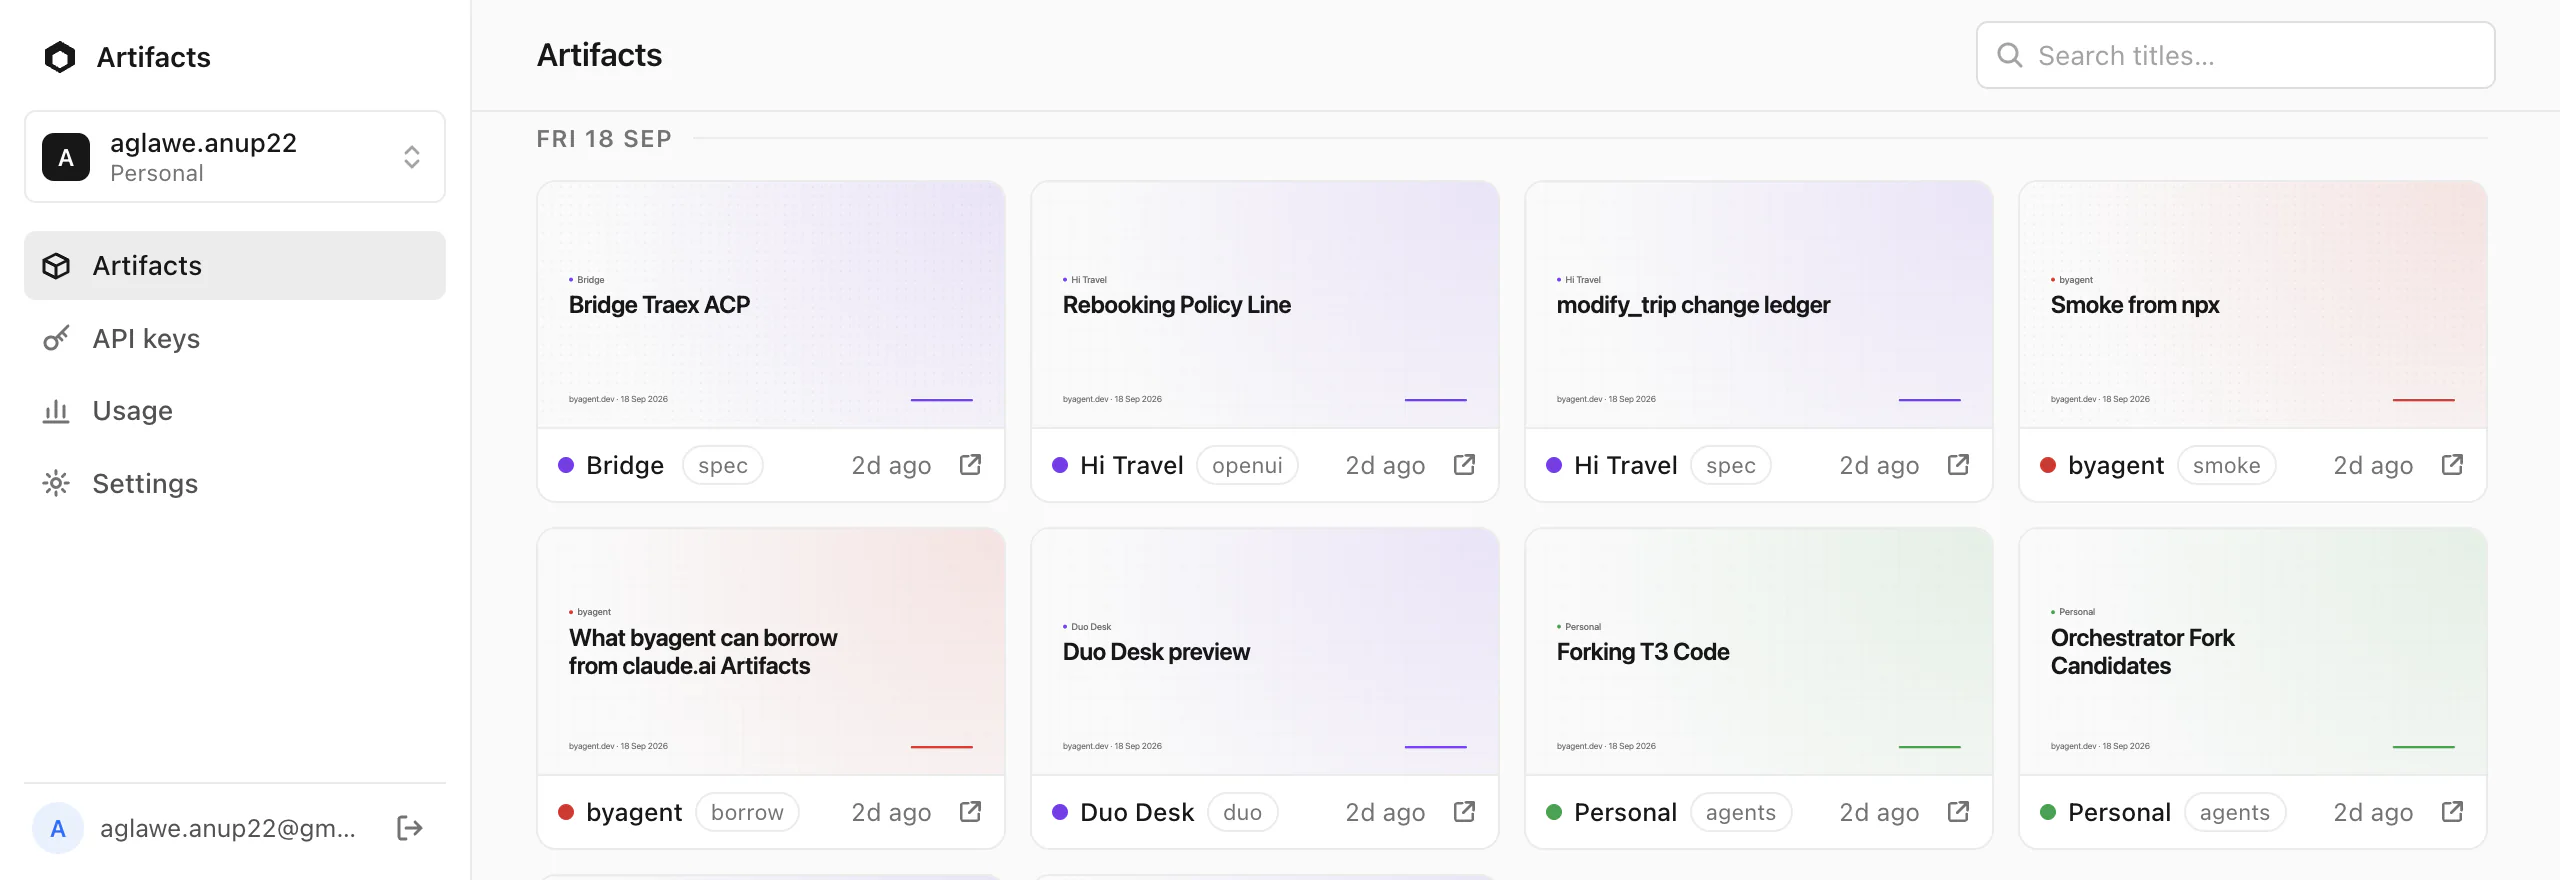
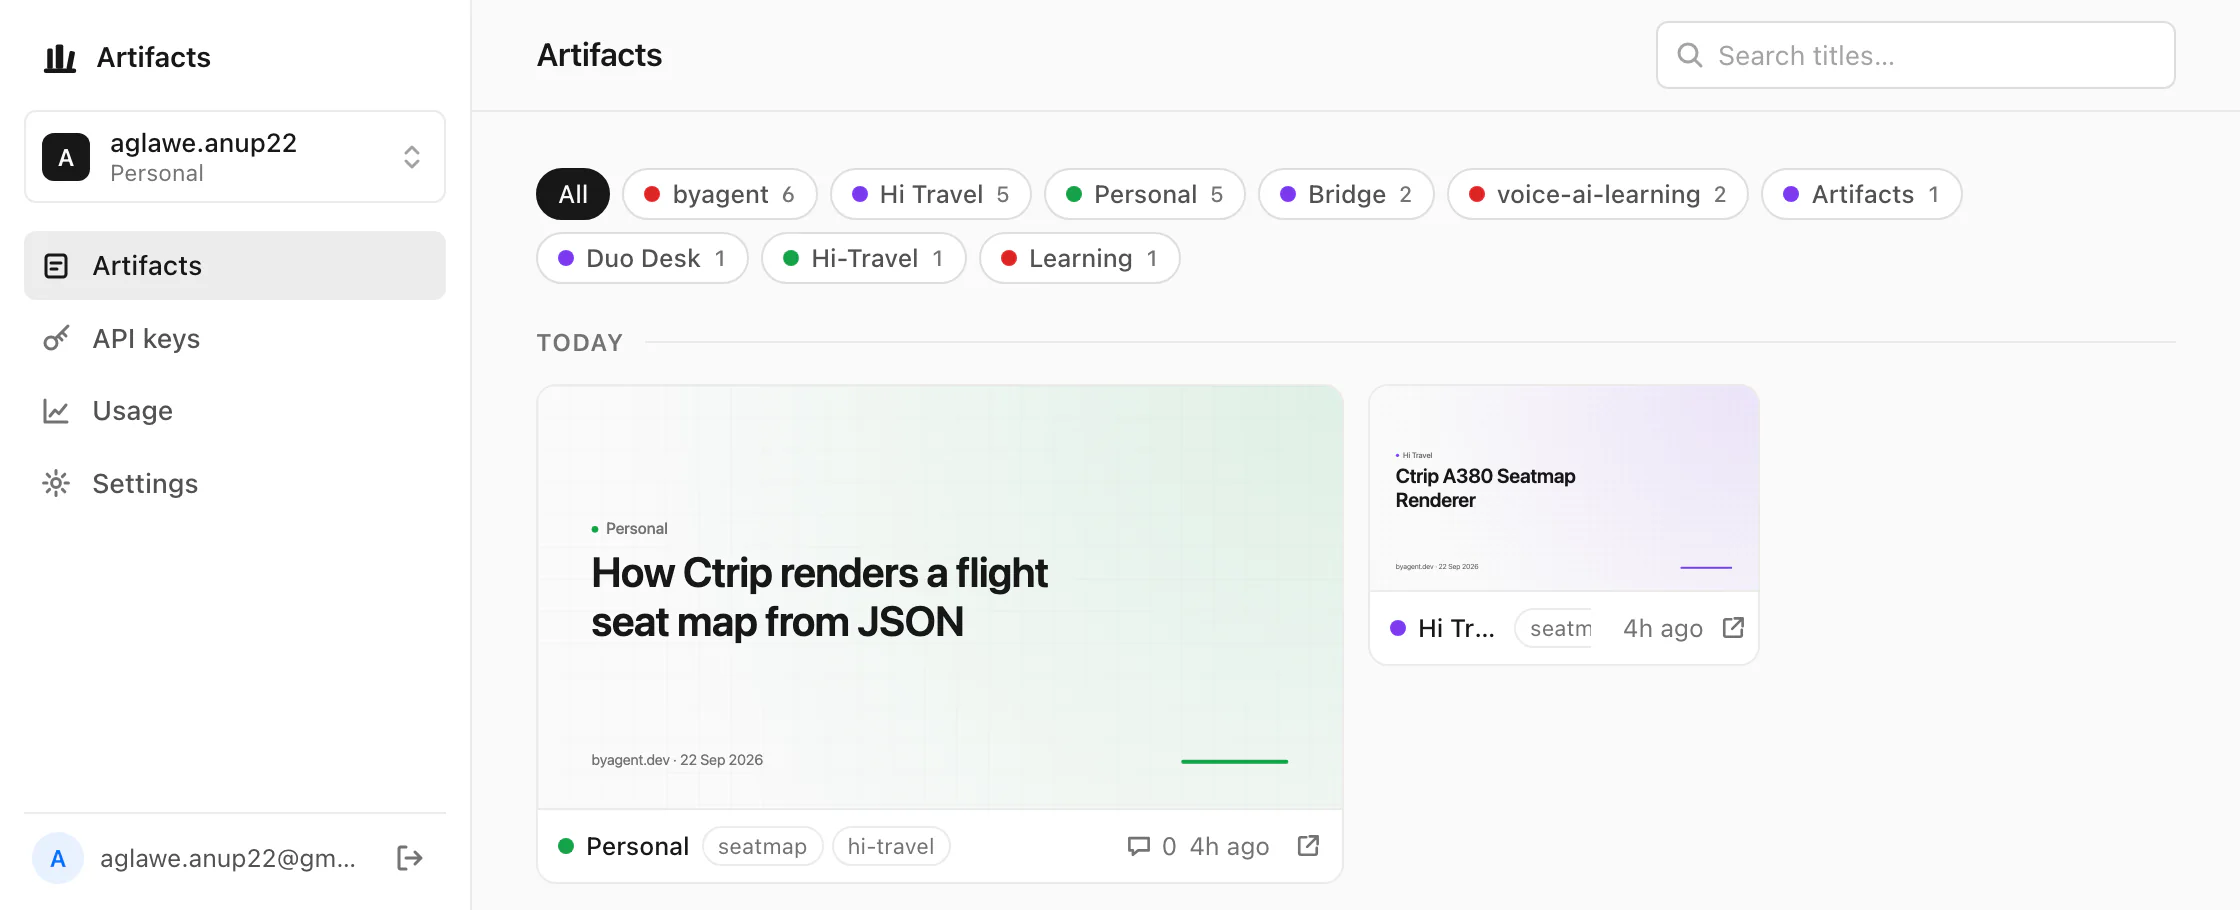
feat: reshoot the shelf now that covers follow the theme
The dark still on the landing page was taken before covers had a dark
scheme, so it showed the thing it was meant to sell as a row of white
slabs on a black page. Both stills are reshot from the live dashboard.

The frame moved to the top of the shelf and to a narrower window. At the
top there is no stretch of empty sidebar under the nav, the search and
the project filters are in view, and at 1120 the grid is three columns
wide, so the newest day fills its row instead of trailing two empty
columns.

Smaller too: 45 KB a side against 65 KB.

diff --git a/internal/app/templates/landing.html b/internal/app/templates/landing.html
@@ -43,10 +43,10 @@
        to the system setting, and this page has a control of its own. CSS shows
        the one that matches, and the other is lazy so it is never fetched. */}}
   <div class="lp-shot-stage">
-    <img class="lp-shot-main is-light" src="{{$d.ShotURL}}" width="1280" height="440"
-         alt="The byagent dashboard: eight published pages under one day heading, each with its project, a tag and a comment count">
-    <img class="lp-shot-main is-dark" src="{{$d.ShotDarkURL}}" width="1280" height="440" loading="lazy"
-         alt="The byagent dashboard: eight published pages under one day heading, each with its project, a tag and a comment count">
+    <img class="lp-shot-main is-light" src="{{$d.ShotURL}}" width="1120" height="455"
+         alt="The byagent dashboard: a workspace of published pages filtered by project, grouped by the day they went out">
+    <img class="lp-shot-main is-dark" src="{{$d.ShotDarkURL}}" width="1120" height="455" loading="lazy"
+         alt="The byagent dashboard: a workspace of published pages filtered by project, grouped by the day they went out">
     <img class="lp-shot-inset is-light" src="{{$d.ThreadURL}}" width="549" height="200" loading="lazy"
          alt="A comment thread on one page: a reader quotes a line, asks to time-box the first step, and the owner answers underneath">
     <img class="lp-shot-inset is-dark" src="{{$d.ThreadDarkURL}}" width="549" height="200" loading="lazy"
